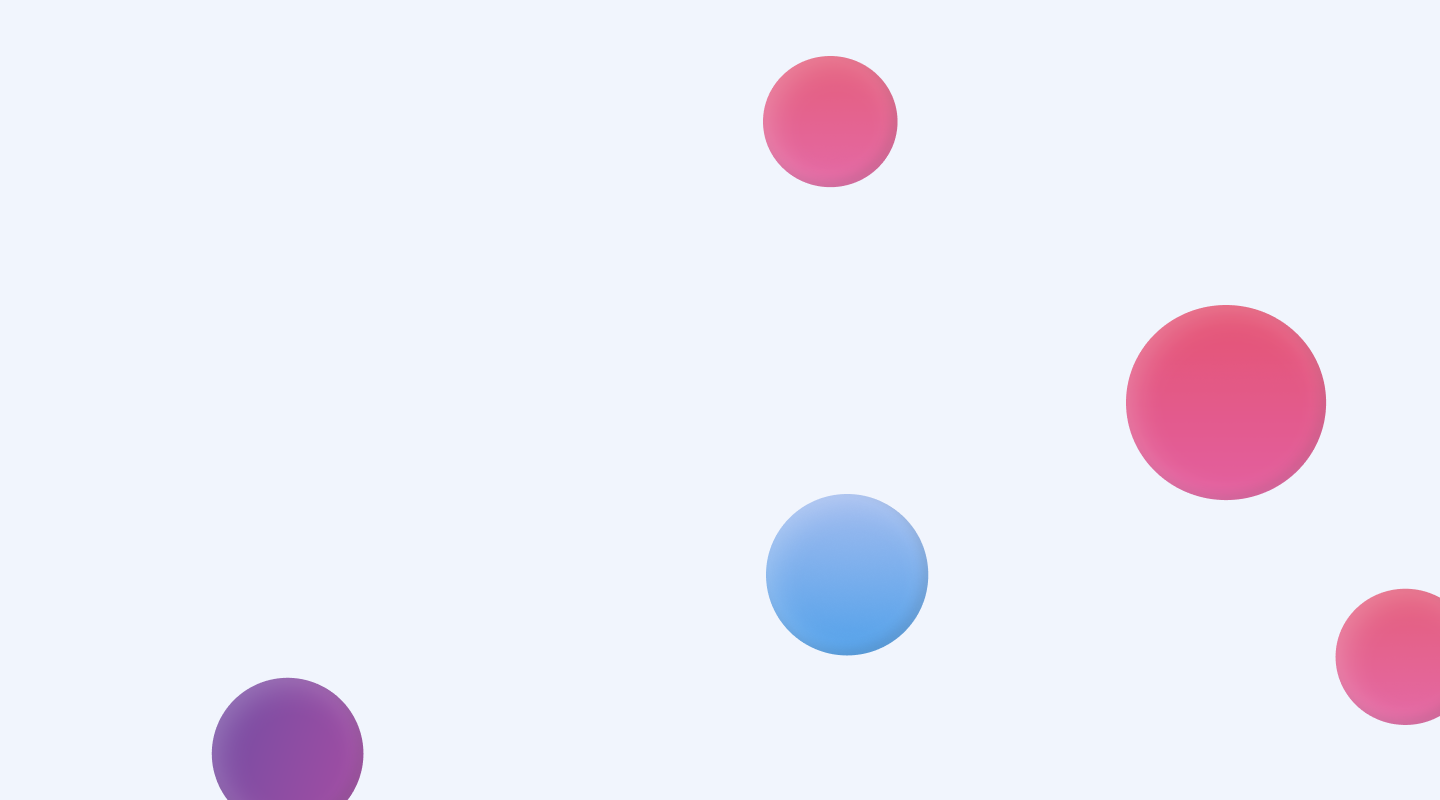
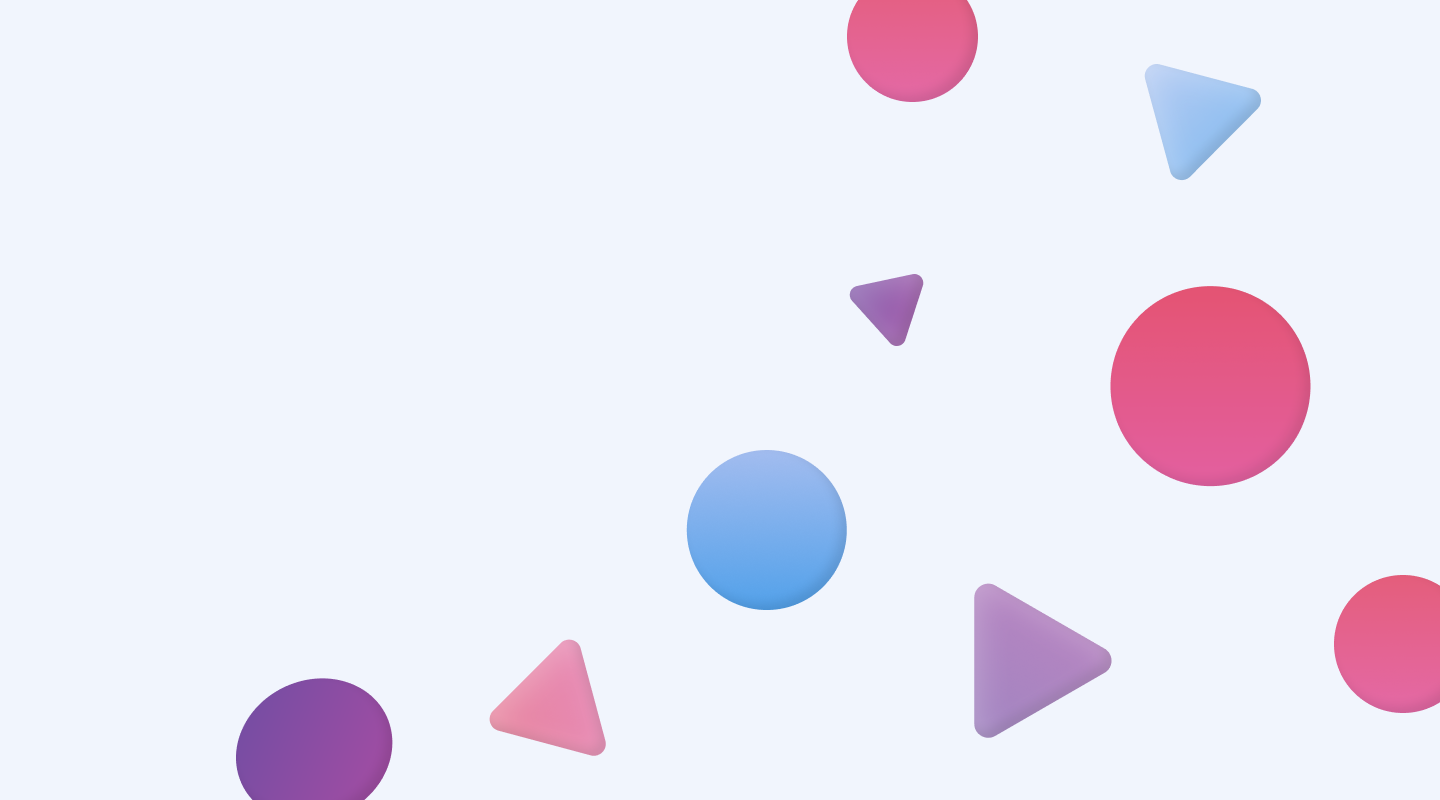
Responsiveness of the background header

diff --git a/src/components/navbar.js b/src/components/navbar.js
@@ -1,28 +1,43 @@
 import React from 'react'
 import { Link } from "gatsby"
 
-export default function Navbar() {
-  return (
-    <section id="navbar" className="fixed bg-white opacity-75 w-full z-10">
-      <div className="flex justify-between items-center py-2 container">
-        <Link className="pr-6 my-1" to="#header">
-          <img src="../images/logocloe.png" alt="logo Cloe"/>
-        </Link>
-        <div className="right-content flex">
-          <Link className="pr-6" to="#about">
-            About
+class Navbar extends React.Component {
+  //   state = {
+  //   navOpacity: 1
+  // };
+
+  // componentDidMount() {
+  //   document.addEventListener("scroll", () => {
+  //     const opacity = window.scrollY < 600 ? 1 : 0.8;
+
+  //     this.setState({ navOpacity: opacity });
+  //   });
+  // }
+  render() {
+    return (
+      <section id="navbar" className="fixed bg-white w-full z-10 opacity-75">
+        <div className="flex justify-between items-center py-2 container">
+          <Link className="pr-6 my-1" to="#header">
+            <img src="../images/logocloe.png" alt="logo Cloe"/>
           </Link>
-          <Link className="pr-6" to="#technologies">
-            Technologies
-          </Link>
-          <Link className="pr-6" to="#projects">
-            Projects
-          </Link>
-          <Link className="pr-6" to="#contact">
-            Contact
-          </Link>
+          <div className="right-content flex">
+            <Link className="pr-6" to="#about">
+              About
+            </Link>
+            <Link className="pr-6" to="#technologies">
+              Technologies
+            </Link>
+            <Link className="pr-6" to="#projects">
+              Projects
+            </Link>
+            <Link className="pr-6" to="#contact">
+              Contact
+            </Link>
+          </div>
         </div>
-      </div>
-    </section>
-  )
+      </section>
+    )
+  }
 }
+
+export default Navbar;

diff --git a/src/styles/pages/header.css b/src/styles/pages/header.css
@@ -1,12 +1,21 @@
+#header {
+  height: 100vh;
+}
+
 #banner {
-  background-image: url('../../images/header-full.png');
+  background-image: url('../../images/header.png');
   background-size: cover;
   background-repeat: no-repeat;
   background-attachment: fixed;
   background-position: center;
+  height: 100%;
 }
 
-#
+@media (max-width: 768px) {
+  #banner {
+    background-image: url('../../images/header-mobile.png');
+  }
+}
 
 #banner > .content > .geometric-element {
   opacity: 0.3;

diff --git a/src/styles/pages/technologies.css b/src/styles/pages/technologies.css
@@ -15,7 +15,7 @@
 }
 
 #technologies > .container > .type > .front-end {
-  color: ##E3647F;
+  color: #E3647F;
   font-weight: bold;
   margin-left: 24px;
 }

diff --git a/src/styles/pages/about.css b/src/styles/pages/about.css
@@ -11,3 +11,7 @@
   max-width: 230px;
   margin: 4rem 8rem;
 }
+
+#about > .left-content > p {
+  font-size: 20px;
+}
